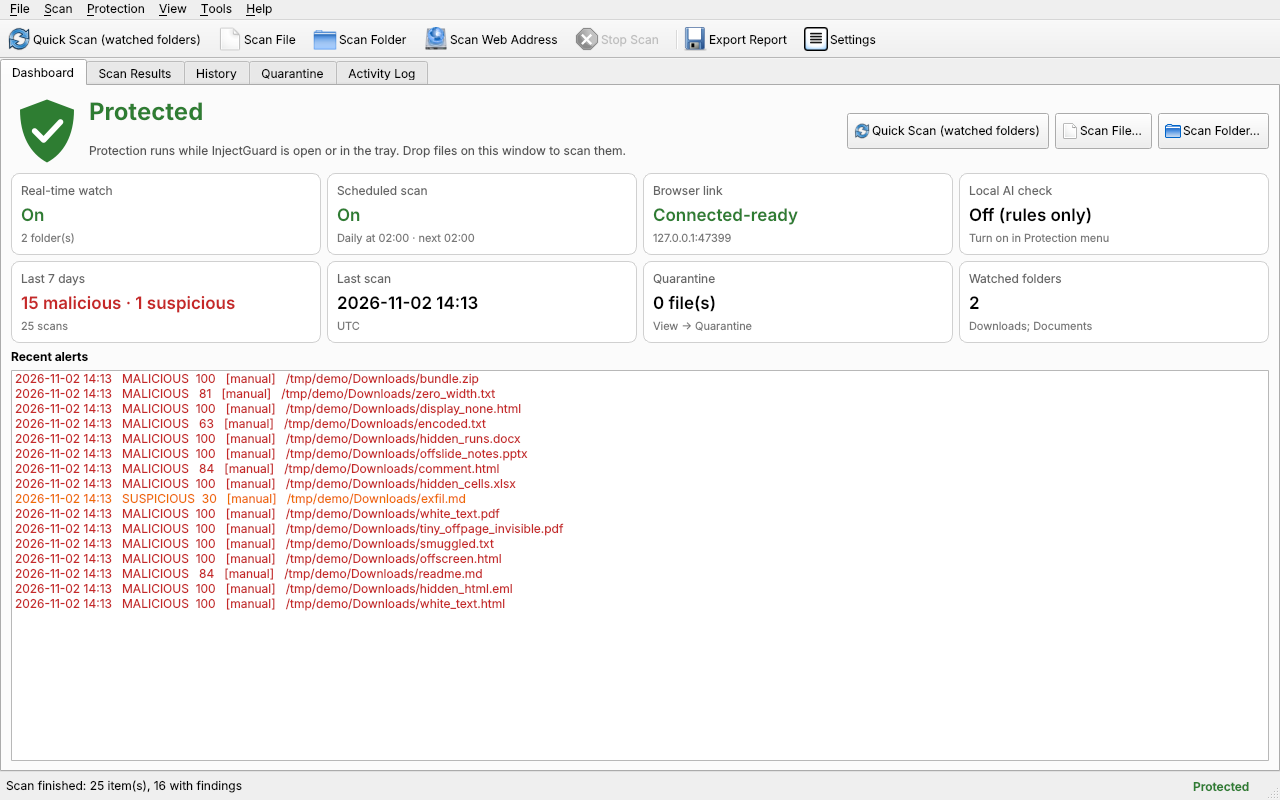
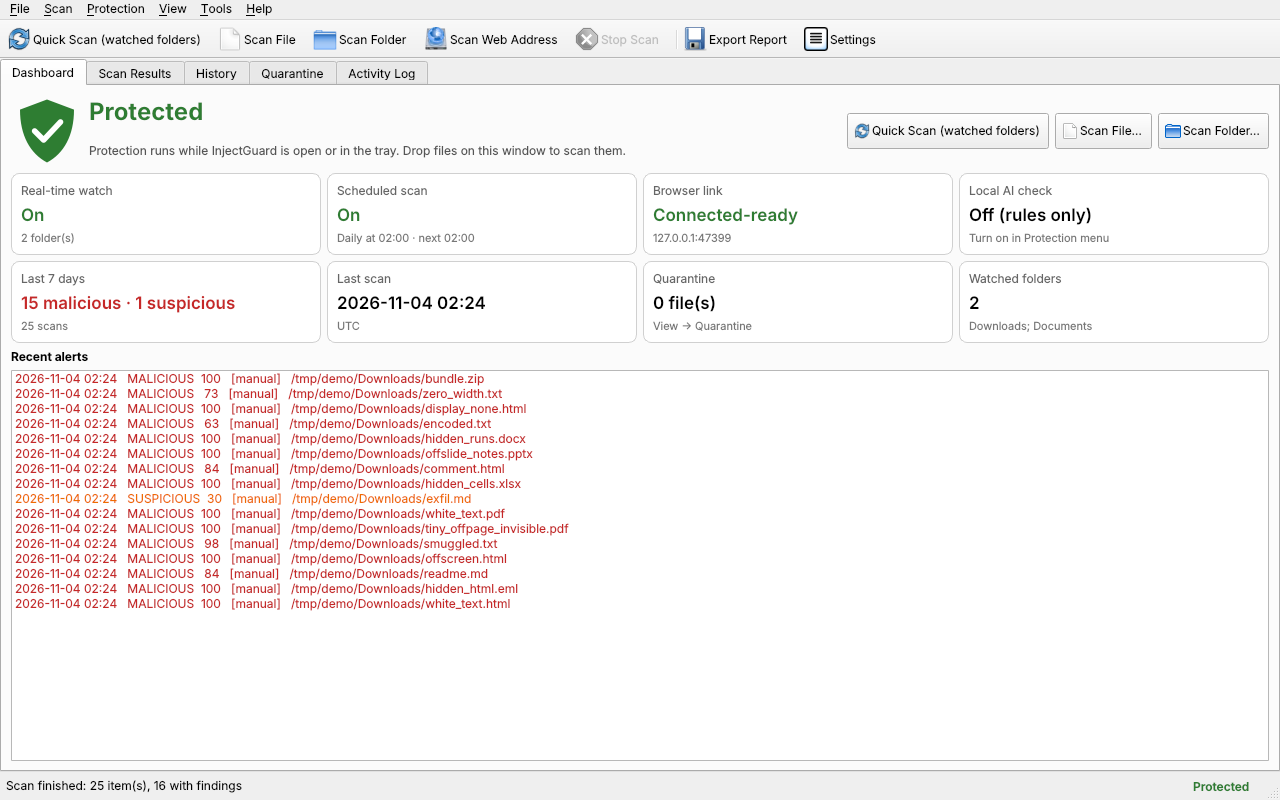
docs: real-world results, what it skips, fresh screenshots, CHANGELOG.md (#14)
- README: "Real-world results" (Agent Arena Malicious 93, LinkedIn clean,
  10,702-file Documents scan with 0 malicious / 0 errors) with screenshots
  from the author's Mac
- README: "What it skips, and says so" table; Known limits updated
- Screenshots regenerated from v0.0.14
- Changelog moved to CHANGELOG.md with release links and dates

Claude-Session: https://claude.ai/code/session_01HokaK71Fs9jqsux41xND1H

Changed region(s): [[0.0625, 0.4688, 0.4375, 0.7812], [0.3438, 0.3438, 0.375, 0.4062]]

diff --git a/README.md b/README.md
@@ -26,6 +26,7 @@ blocks your work. Everything runs on your computer.
 ## Contents
 
 - [Screenshots](#screenshots)
+- [Real-world results](#real-world-results)
 - [Install on macOS](#install-on-macos)
 - [Install on Windows or Linux](#install-on-windows-or-linux)
 - [Command line](#command-line)
@@ -54,6 +55,8 @@ was hidden, and the exact text.
 
 **Desktop app: dashboard.** Protection status, last 7 days, and recent alerts.
 
+![InjectGuard on macOS: protection on, background service running](docs/screenshots/real-mac-dashboard.png)
+
 ![Desktop app dashboard](docs/screenshots/desktop-dashboard.png)
 
 <details>
@@ -64,6 +67,25 @@ was hidden, and the exact text.
 ![Settings dialog](docs/screenshots/desktop-settings.png)
 
 </details>
+
+## Real-world results
+
+Tested on the author's own Mac and browser, not just on the built-in samples.
+
+| Test | Result |
+|---|---|
+| [Agent Arena](https://feedbagel.com/post/agent-arena-testing-ai-agents-against-prompt-injection-attacks) test page (10 hidden attack types) | **Malicious, 93**, with every hiding trick listed |
+| A busy LinkedIn feed (hidden layout copies, menus, screen-reader text) | **Clean** |
+| A full `~/Documents` folder: 10,702 files, 13 years of PDFs, Office files, email and web exports | **0 malicious, 0 errors**, 1 suspicious (an old blog export with how-to text; the local AI check agreed it was benign) |
+
+<p align="center">
+  <img src="docs/screenshots/real-agent-arena.png" alt="InjectGuard flagging the Agent Arena test page as malicious, score 93" width="360">
+  &nbsp;
+  <img src="docs/screenshots/real-linkedin.png" alt="InjectGuard showing a LinkedIn feed as clean" width="360">
+</p>
+
+The first versions flagged normal sites and documents. Each false alarm found on real pages and files was turned
+into a test so it can't come back; the [changelog](CHANGELOG.md) lists them.
 
 ---
 
@@ -272,6 +294,22 @@ Exit codes: **0** clean · **1** suspicious · **2** malicious · **3** error.
 | Markdown / text | Comments, link reference lines, image alt text, hidden inline HTML, invisible Unicode |
 | ZIP | Members scanned (limited to 200 MB uncompressed) |
 
+**What it skips, and says so**
+
+Files it can't look inside are listed as **Skipped** with the reason, never as clean and never as errors:
+
+| File | Why |
+|---|---|
+| iCloud files not downloaded to this Mac ("Optimize Mac Storage") | Skipped *without reading*, so a scan never pulls gigabytes from iCloud. They're scanned once they're on disk. |
+| Finder aliases (shortcuts named like `report.xlsx`) | The original is scanned where it lives. |
+| Password-protected or rights-managed PDFs and Office files | Contents are encrypted. |
+| Old `.doc` / `.xls` / `.ppt` files renamed to the new extensions | Old binary formats aren't supported yet. |
+| Empty, damaged or partly downloaded files | Nothing reliable to read. |
+| Office lock files (`~$Budget.xlsx`, `.~lock.*`) | Not documents; never scanned. |
+
+Files named `.xlsx` / `.docx` / `.pdf` that are really HTML or CSV (common in school and web-system exports) are
+recognised by their content and scanned normally.
+
 **What it looks for**
 
 - 27 phrase rules in six groups: instruction override, fake system/role messages and fake authority, data theft,
@@ -372,47 +410,14 @@ Not in a position to tip? Starring the repo, reporting false alarms, and telling
 
 ## Changelog
 
-- **0.0.14** — Stray zero-width and text-direction characters (left behind by copying from web pages, Outlook or
-  Word) no longer make a file malicious; they only count when they hide an instruction or a message. The scan
-  summary prints after the findings.
-- **0.0.13** — macOS Finder aliases (shortcuts that carry a document's name, like `report.xlsx` or `paper.pdf`) are
-  skipped instead of misread; `.pdf` files that aren't PDFs are identified by content; damaged PDFs are skipped, not
-  errors. Stricter text detection, so binary data is never scanned as text.
-- **0.0.12** — Files named `.docx/.xlsx/.pptx` that aren't really Office files are identified by their content:
-  HTML or CSV tables (common in school and web-system exports) are scanned as such; anything else, and damaged or
-  partly downloaded Office files, are skipped with a plain reason instead of "File is not a zip file".
-- **0.0.11** — Password-protected or rights-managed Office files (and old .doc/.xls/.ppt files renamed to the new
-  extensions) are reported as skipped with a plain reason instead of "File is not a zip file". Office and
-  LibreOffice lock files (`~$name.xlsx`, `.~lock.*`) are no longer scanned.
-- **0.0.10** — Fixes a crash on documents with long runs of a single invisible character (common in Word and web
-  exports). One file that fails to scan is now reported as an error and the folder or scheduled scan carries on.
-- **0.0.9** — Files InjectGuard can't look inside are reported as **skipped** with a plain reason instead of
-  errors: iCloud placeholders not downloaded to this Mac (skipped without reading, so scans never trigger iCloud
-  downloads), empty files, and password-protected PDFs. `scan -q` lists only files with findings or real errors.
-- **0.0.8** — Far fewer false alarms on ordinary documents: visible-only findings top out at Suspicious; code
-  examples count as examples; status badges are no longer "image links that leak data"; "Developer mode" is no
-  longer a jailbreak phrase; desktop notifications for background scans now default to Malicious only (existing
-  installs are switched once; choose Suspicious again in Settings if you prefer). 6 new tests.
-- **0.0.7** — Security fixes from CodeQL: "scan linked page" from the browser can no longer reach this computer or
-  the local network (loopback, private and link-local addresses are refused, on every redirect too); the local
-  service no longer accepts file paths (`/scan/path` removed); only exact browser-extension origins are accepted and
-  echoed back. 18 new security tests.
-- **0.0.6** — Covers all 10 Agent Arena vector types: new output-manipulation and fake-authority rules, a
-  combination rule (addresses an AI + gives an instruction), zero-width message decoding, micro text (small and
-  faint), every `data-*` attribute in the extension, and far-right off-screen text. 24 new tests.
-- **0.0.5** — Fewer false positives on pages *about* prompt injection: "hidden prompt injection" no longer counts as
-  a hidden instruction, and the same text repeated in several places (meta description, og:description,
-  twitter:description) counts once. Added the Agent Arena public test page to the README.
-- **0.0.4** — Fixes pip install (packaging metadata error introduced in 0.0.2).
-- **0.0.3** — Fewer false positives on real sites (found on LinkedIn): hidden copies of visible text count as
-  visible; layout-style hiding scores lower than camouflage; tighter rules for "you are now…", "never show… anyone",
-  "confidential message", data-sending (now needs an outside address), and quoted discussions. **Reveal hidden
-  text** shows only real findings. Added 68 false-positive tests.
-- **0.0.2** — First public release.
+See [CHANGELOG.md](CHANGELOG.md). Latest: **0.0.14**, stray zero-width characters no longer make a file
+malicious. Every release is on the [Releases page](https://github.com/kghaynes/injectguard/releases).
 
 ## Known limits
 
 - Text inside images (scanned PDFs, screenshots) is not read yet.
+- Old binary Office files (`.doc`, `.xls`, `.ppt`) are not read yet.
+- iCloud files that aren't downloaded can't be checked until they are (open them, or use Finder → **Keep Downloaded**).
 - A well-written injection in plain visible text with no telltale phrasing can pass the rules; the local AI check
   is the mitigation.
 - Closed shadow DOM on web pages can't be read.

diff --git a/CHANGELOG.md b/CHANGELOG.md
@@ -1,0 +1,60 @@
+# Changelog
+
+All notable changes to InjectGuard. Versions follow `MAJOR.MINOR.PATCH`; releases are on the
+[Releases page](https://github.com/kghaynes/injectguard/releases).
+
+## Unreleased
+
+- Docs: real-world results, what InjectGuard skips, refreshed screenshots, changelog moved here.
+
+## [0.0.14](https://github.com/kghaynes/injectguard/releases/tag/v0.0.14) - 2026-11-03
+
+Stray zero-width and text-direction characters (left behind by copying from web pages, Outlook or Word) no longer make a file malicious; they only count when they hide an instruction or a message. The scan summary prints after the findings.
+
+## [0.0.13](https://github.com/kghaynes/injectguard/releases/tag/v0.0.13) - 2026-11-03
+
+macOS Finder aliases (shortcuts that carry a document's name, like `report.xlsx` or `paper.pdf`) are skipped instead of misread; `.pdf` files that aren't PDFs are identified by content; damaged PDFs are skipped, not errors. Stricter text detection, so binary data is never scanned as text.
+
+## [0.0.12](https://github.com/kghaynes/injectguard/releases/tag/v0.0.12) - 2026-11-03
+
+Files named `.docx/.xlsx/.pptx` that aren't really Office files are identified by their content: HTML or CSV tables (common in school and web-system exports) are scanned as such; anything else, and damaged or partly downloaded Office files, are skipped with a plain reason instead of "File is not a zip file".
+
+## [0.0.11](https://github.com/kghaynes/injectguard/releases/tag/v0.0.11) - 2026-11-03
+
+Password-protected or rights-managed Office files (and old .doc/.xls/.ppt files renamed to the new extensions) are reported as skipped with a plain reason instead of "File is not a zip file". Office and LibreOffice lock files (`~$name.xlsx`, `.~lock.*`) are no longer scanned.
+
+## [0.0.10](https://github.com/kghaynes/injectguard/releases/tag/v0.0.10) - 2026-11-03
+
+Fixes a crash on documents with long runs of a single invisible character (common in Word and web exports). One file that fails to scan is now reported as an error and the folder or scheduled scan carries on.
+
+## [0.0.9](https://github.com/kghaynes/injectguard/releases/tag/v0.0.9) - 2026-11-03
+
+Files InjectGuard can't look inside are reported as **skipped** with a plain reason instead of errors: iCloud placeholders not downloaded to this Mac (skipped without reading, so scans never trigger iCloud downloads), empty files, and password-protected PDFs. `scan -q` lists only files with findings or real errors.
+
+## [0.0.8](https://github.com/kghaynes/injectguard/releases/tag/v0.0.8) - 2026-11-03
+
+Far fewer false alarms on ordinary documents: visible-only findings top out at Suspicious; code examples count as examples; status badges are no longer "image links that leak data"; "Developer mode" is no longer a jailbreak phrase; desktop notifications for background scans now default to Malicious only (existing installs are switched once; choose Suspicious again in Settings if you prefer). 6 new tests.
+
+## [0.0.7](https://github.com/kghaynes/injectguard/releases/tag/v0.0.7) - 2026-11-03
+
+Security fixes from CodeQL: "scan linked page" from the browser can no longer reach this computer or the local network (loopback, private and link-local addresses are refused, on every redirect too); the local service no longer accepts file paths (`/scan/path` removed); only exact browser-extension origins are accepted and echoed back. 18 new security tests.
+
+## [0.0.6](https://github.com/kghaynes/injectguard/releases/tag/v0.0.6) - 2026-11-02
+
+Covers all 10 Agent Arena vector types: new output-manipulation and fake-authority rules, a combination rule (addresses an AI + gives an instruction), zero-width message decoding, micro text (small and faint), every `data-*` attribute in the extension, and far-right off-screen text. 24 new tests.
+
+## 0.0.5 - 2026-11-02 (not released on its own; included in the next release)
+
+Fewer false positives on pages *about* prompt injection: "hidden prompt injection" no longer counts as a hidden instruction, and the same text repeated in several places (meta description, og:description, twitter:description) counts once. Added the Agent Arena public test page to the README.
+
+## [0.0.4](https://github.com/kghaynes/injectguard/releases/tag/v0.0.4) - 2026-11-02
+
+Fixes pip install (packaging metadata error introduced in 0.0.2).
+
+## [0.0.3](https://github.com/kghaynes/injectguard/releases/tag/v0.0.3) - 2026-11-02
+
+Fewer false positives on real sites (found on LinkedIn): hidden copies of visible text count as visible; layout-style hiding scores lower than camouflage; tighter rules for "you are now…", "never show… anyone", "confidential message", data-sending (now needs an outside address), and quoted discussions. **Reveal hidden text** shows only real findings. Added 68 false-positive tests.
+
+## [0.0.2](https://github.com/kghaynes/injectguard/releases/tag/v0.0.2) - 2026-11-02
+
+First public release.
